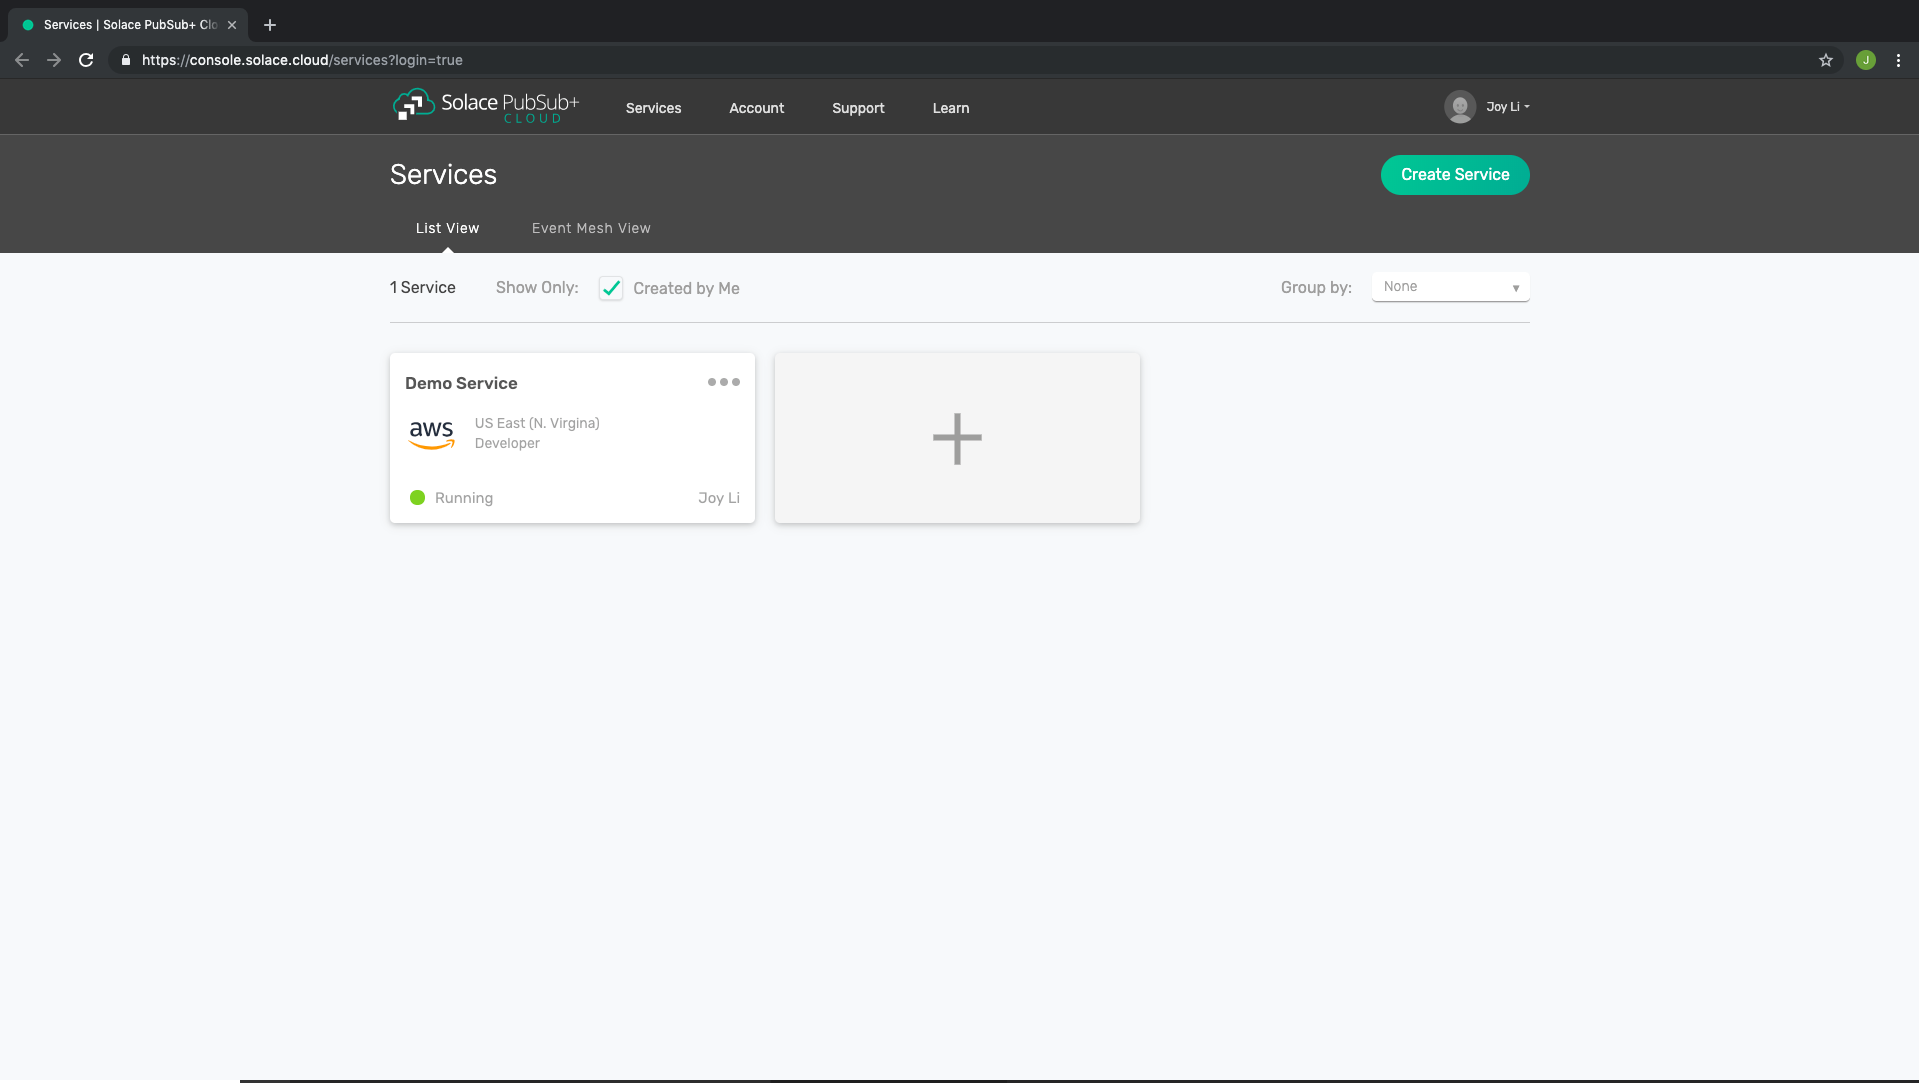
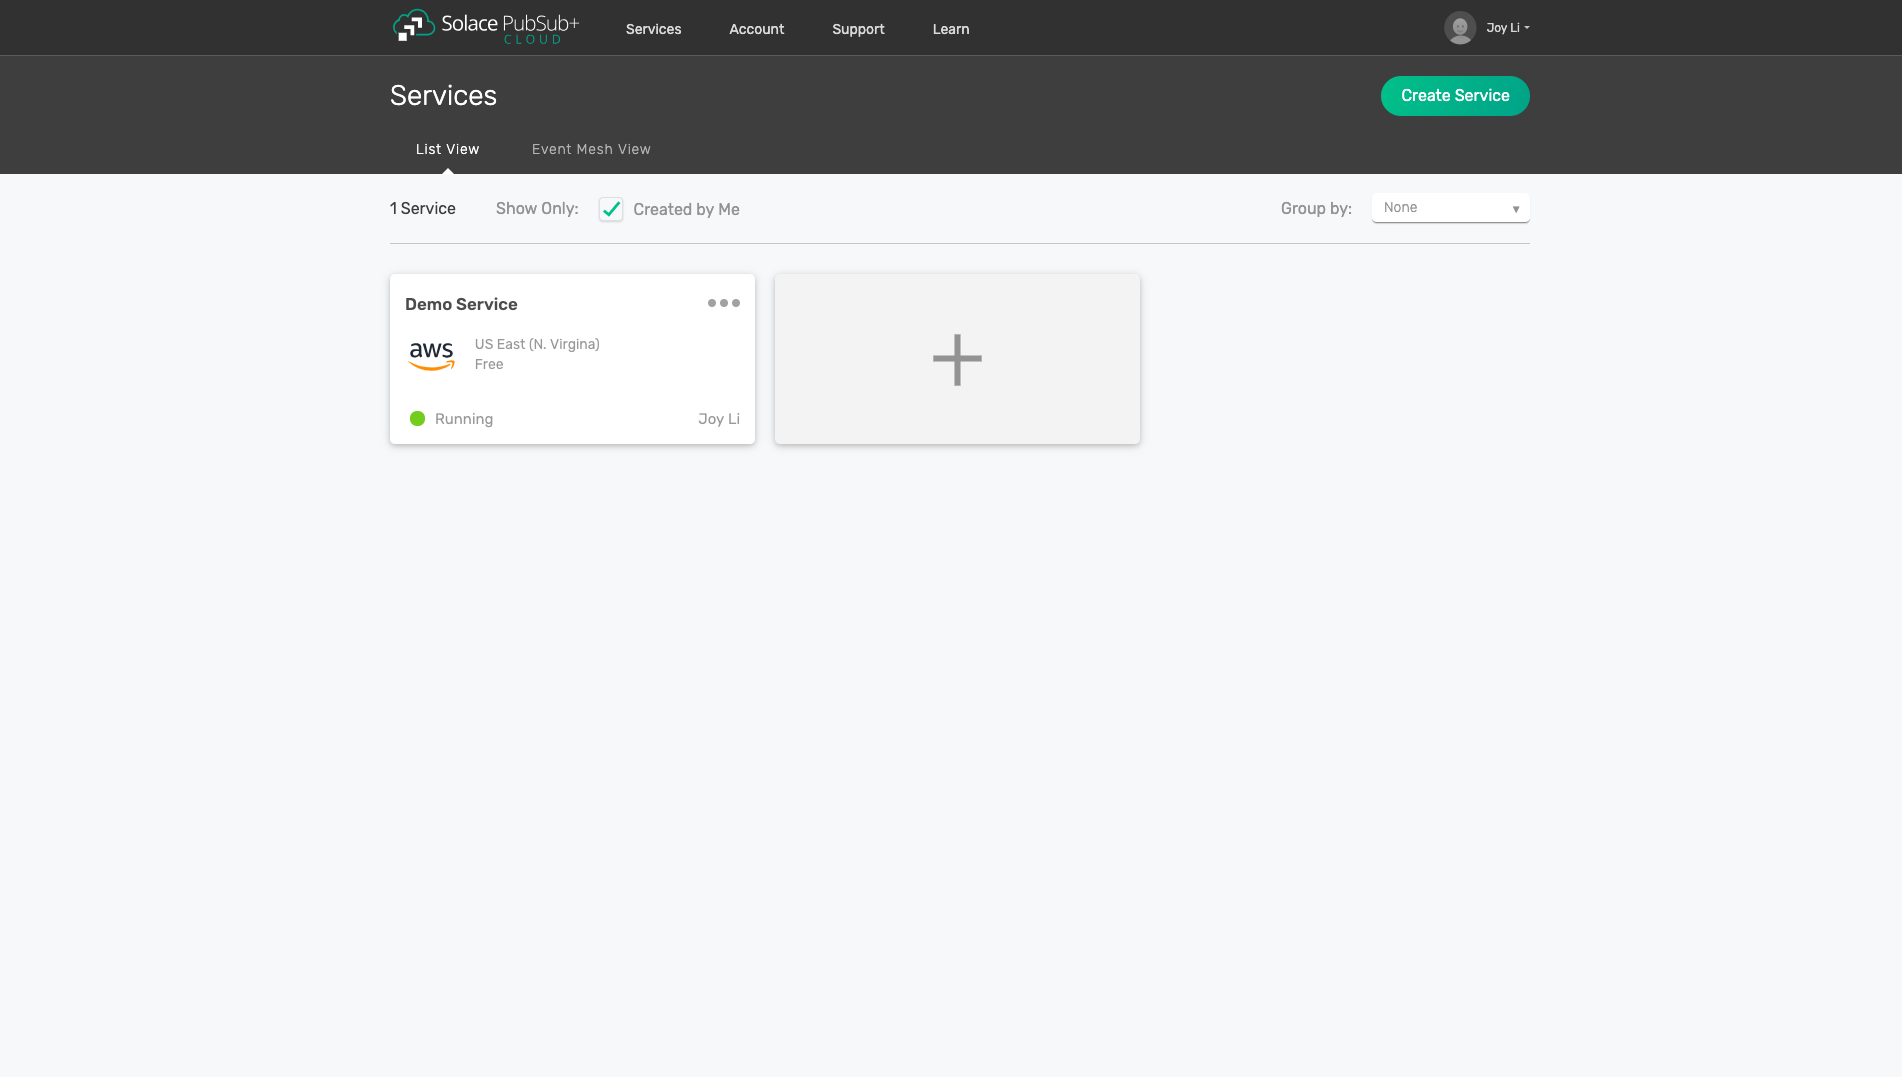
update

diff --git a/docs/group_howto/ght_use_rest_api_services.rst b/docs/group_howto/ght_use_rest_api_services.rst
@@ -73,8 +73,8 @@ You need an API token to authenticate and authorize REST requests. When creating
 
   .. image:: ../img/use_api_tokens_5.jpg
 
-  c. Paste the token in the value field of the **apiToken** key, add **serviceTypeId** and **serviceClassId** two variables with developer and nano as the value individually and then click Update.
-
+  c. Paste the token in the value field of the **apiToken** key. You must also select a service type and service class. For a free service, set the **serviceTypeId** to **free** and the **serviceClassId** to **free** as well. Once all the values are entered, click Update.
+  
   .. image:: ../img/use_api_tokens_6.jpg
 
 **Great!** Now we have a token, and Postman is set up to use it!
@@ -99,6 +99,7 @@ You should see a JSON response confirming that a messaging service was created.
 Now go back to Solace Cloud and you should see your service.
 
 .. image:: ../img/use_api_tokens_9.jpg
+   :target: https://console.solace.cloud/api-tokens
 
 Awesome! You have just created a messaging service.
 
